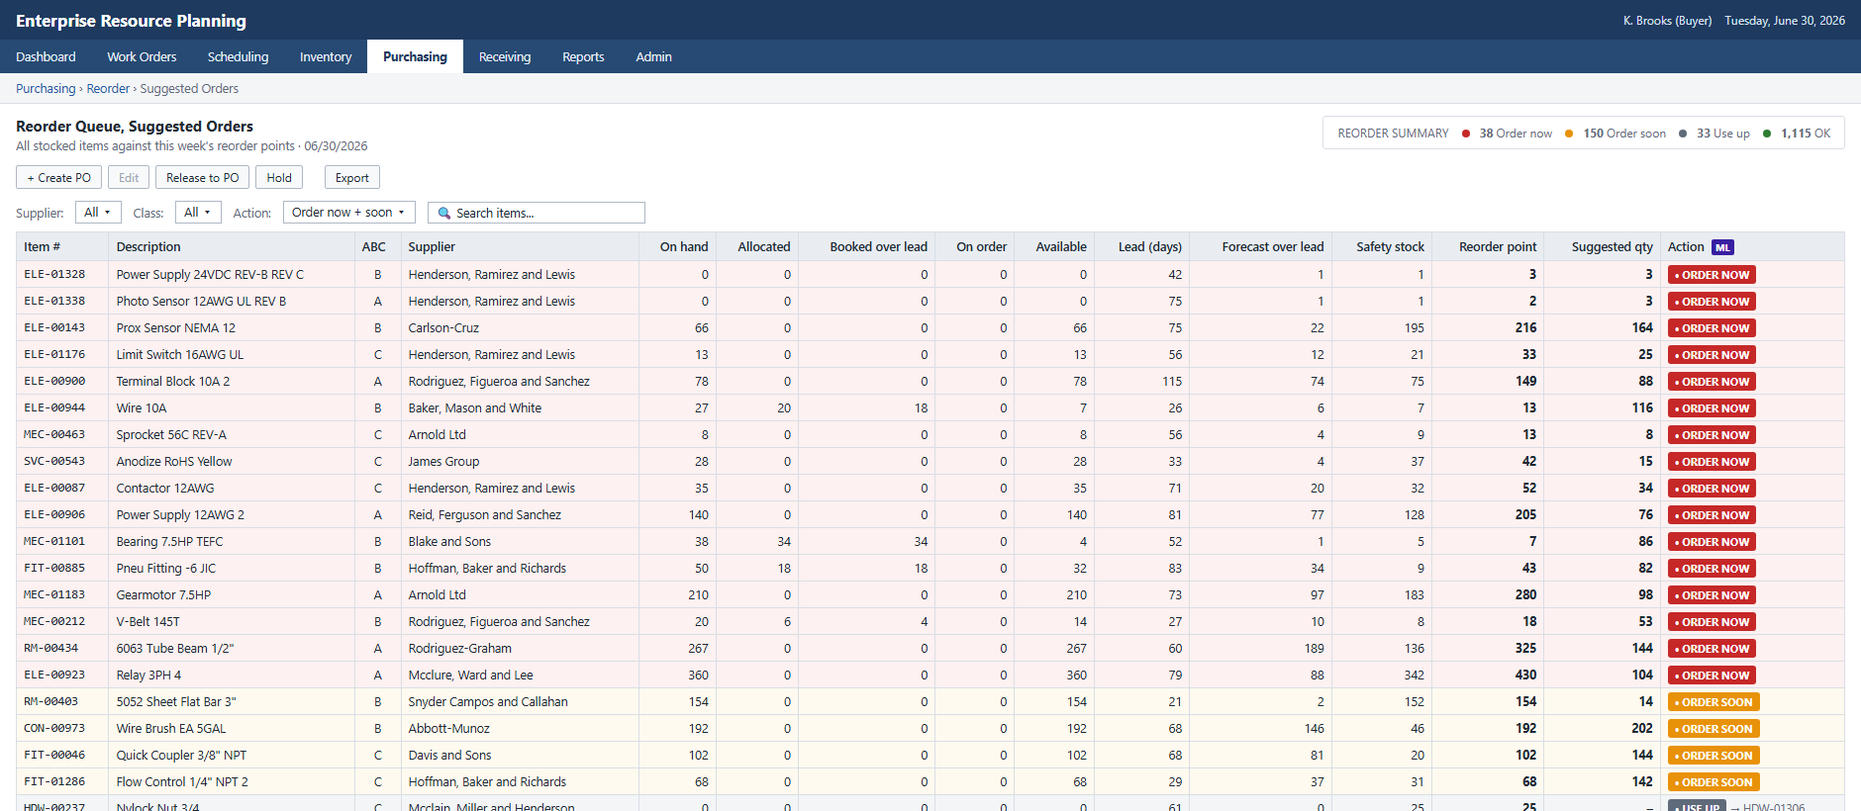
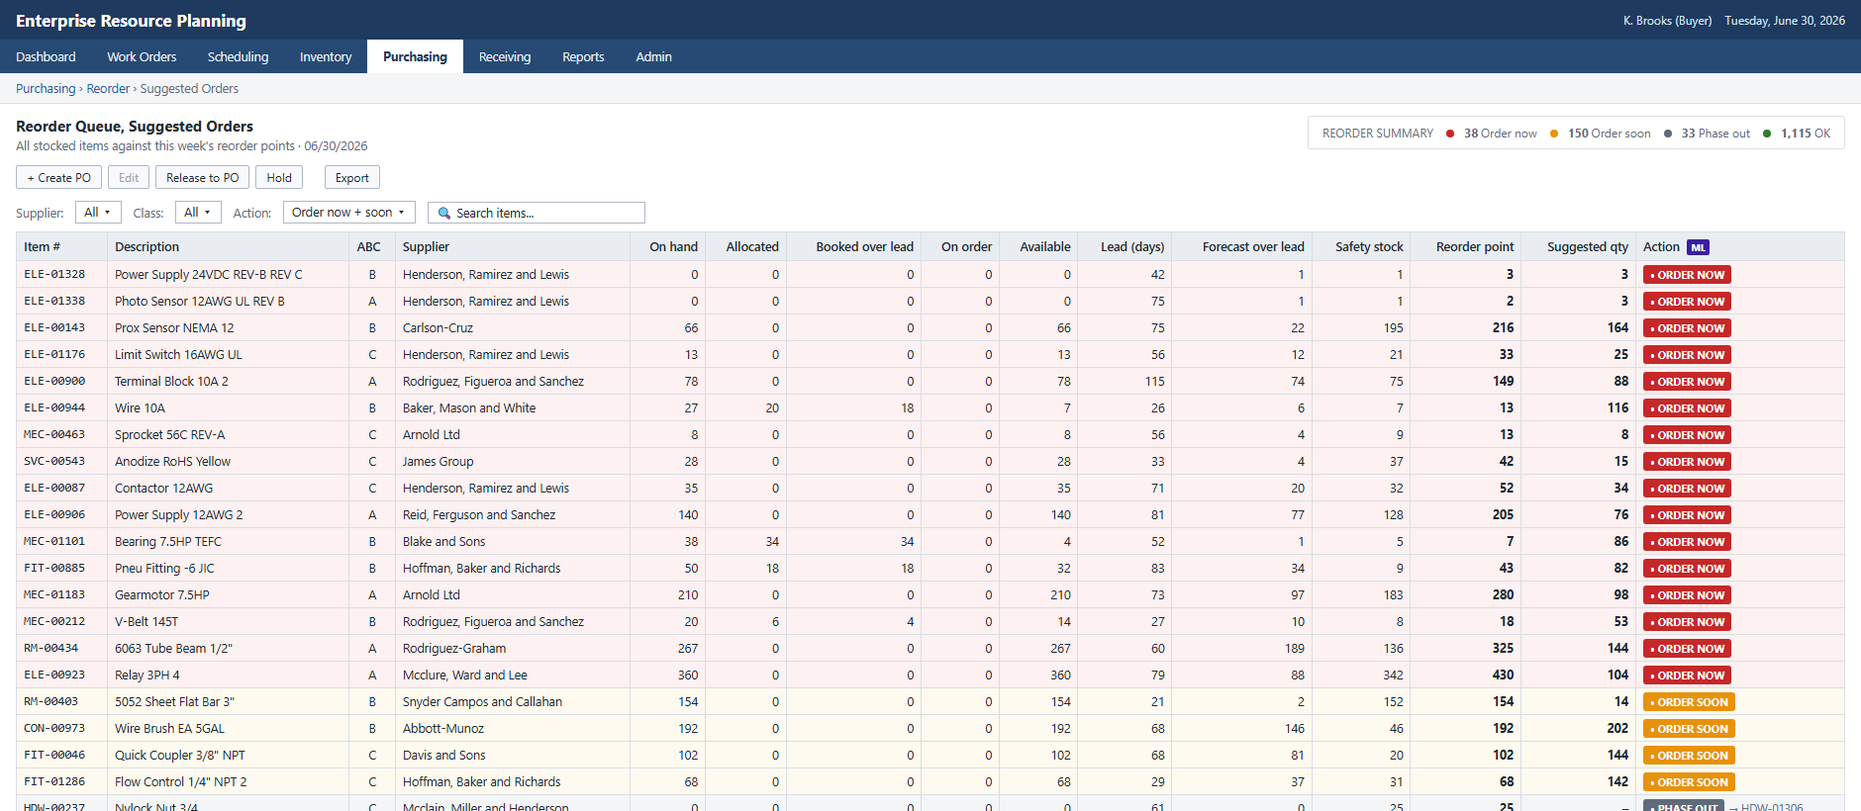
Reorder queue: superseded parts read PHASE OUT
The badge, the summary count and the run message use the new term; nothing
else on the page changes. Screenshot re-captured at 1880 by 820.

diff --git a/docs/index.html b/docs/index.html
@@ -43,7 +43,7 @@
   <div class="sub">All stocked items against this week's reorder points &middot; 06/30/2026</div></div>
   <div class="summary">REORDER SUMMARY <span class="dot" style="background:#C62828"></span><b>38</b>Order now
   <span class="dot" style="background:#E8920A"></span><b>150</b>Order soon
-  <span class="dot" style="background:#5F6B7A"></span><b>33</b>Use up
+  <span class="dot" style="background:#5F6B7A"></span><b>33</b>Phase out
   <span class="dot" style="background:#2E7D32"></span><b>1,115</b>OK</div></div>
 <div class="bar"><span class="btn">+ Create PO</span><span class="btn dim">Edit</span><span class="btn">Release to PO</span>
   <span class="btn">Hold</span><span class="sep"></span><span class="btn">Export</span></div>
@@ -52,5 +52,5 @@
 <table><thead><tr><th>Item #</th><th>Description</th><th>ABC</th><th>Supplier</th><th class="r">On hand</th>
 <th class="r">Allocated</th><th class="r">Booked over lead</th><th class="r">On order</th><th class="r">Available</th><th class="r">Lead (days)</th><th class="r">Forecast over lead</th><th class="r">Safety stock</th>
 <th class="r">Reorder point</th><th class="r">Suggested qty</th><th>Action <span class="ml">ML</span></th></tr></thead>
-<tbody><tr style="background:#FDF1F1;"><td class="mono">ELE-01328</td><td>Power Supply 24VDC REV-B REV C</td><td class="c">B</td><td>Henderson, Ramirez and Lewis</td><td class="r">0</td><td class="r">0</td><td class="r">0</td><td class="r">0</td><td class="r">0</td><td class="r">42</td><td class="r">1</td><td class="r">1</td><td class="r"><b>3</b></td><td class="r"><b>3</b></td><td><span class="badge" style="background:#C62828;">&bull; ORDER NOW</span></td></tr><tr style="background:#FDF1F1;"><td class="mono">ELE-01338</td><td>Photo Sensor 12AWG UL REV B</td><td class="c">A</td><td>Henderson, Ramirez and Lewis</td><td class="r">0</td><td class="r">0</td><td class="r">0</td><td class="r">0</td><td class="r">0</td><td class="r">75</td><td class="r">1</td><td class="r">1</td><td class="r"><b>2</b></td><td class="r"><b>3</b></td><td><span class="badge" style="background:#C62828;">&bull; ORDER NOW</span></td></tr><tr style="background:#FDF1F1;"><td class="mono">ELE-00143</td><td>Prox Sensor NEMA 12</td><td class="c">B</td><td>Carlson-Cruz</td><td class="r">66</td><td class="r">0</td><td class="r">0</td><td class="r">0</td><td class="r">66</td><td class="r">75</td><td class="r">22</td><td class="r">195</td><td class="r"><b>216</b></td><td class="r"><b>164</b></td><td><span class="badge" style="background:#C62828;">&bull; ORDER NOW</span></td></tr><tr style="background:#FDF1F1;"><td class="mono">ELE-01176</td><td>Limit Switch 16AWG UL</td><td class="c">C</td><td>Henderson, Ramirez and Lewis</td><td class="r">13</td><td class="r">0</td><td class="r">0</td><td class="r">0</td><td class="r">13</td><td class="r">56</td><td class="r">12</td><td class="r">21</td><td class="r"><b>33</b></td><td class="r"><b>25</b></td><td><span class="badge" style="background:#C62828;">&bull; ORDER NOW</span></td></tr><tr style="background:#FDF1F1;"><td class="mono">ELE-00900</td><td>Terminal Block 10A 2</td><td class="c">A</td><td>Rodriguez, Figueroa and Sanchez</td><td class="r">78</td><td class="r">0</td><td class="r">0</td><td class="r">0</td><td class="r">78</td><td class="r">115</td><td class="r">74</td><td class="r">75</td><td class="r"><b>149</b></td><td class="r"><b>88</b></td><td><span class="badge" style="background:#C62828;">&bull; ORDER NOW</span></td></tr><tr style="background:#FDF1F1;"><td class="mono">ELE-00944</td><td>Wire 10A</td><td class="c">B</td><td>Baker, Mason and White</td><td class="r">27</td><td class="r">20</td><td class="r">18</td><td class="r">0</td><td class="r">7</td><td class="r">26</td><td class="r">6</td><td class="r">7</td><td class="r"><b>13</b></td><td class="r"><b>116</b></td><td><span class="badge" style="background:#C62828;">&bull; ORDER NOW</span></td></tr><tr style="background:#FDF1F1;"><td class="mono">MEC-00463</td><td>Sprocket 56C REV-A</td><td class="c">C</td><td>Arnold Ltd</td><td class="r">8</td><td class="r">0</td><td class="r">0</td><td class="r">0</td><td class="r">8</td><td class="r">56</td><td class="r">4</td><td class="r">9</td><td class="r"><b>13</b></td><td class="r"><b>8</b></td><td><span class="badge" style="background:#C62828;">&bull; ORDER NOW</span></td></tr><tr style="background:#FDF1F1;"><td class="mono">SVC-00543</td><td>Anodize RoHS Yellow</td><td class="c">C</td><td>James Group</td><td class="r">28</td><td class="r">0</td><td class="r">0</td><td class="r">0</td><td class="r">28</td><td class="r">33</td><td class="r">4</td><td class="r">37</td><td class="r"><b>42</b></td><td class="r"><b>15</b></td><td><span class="badge" style="background:#C62828;">&bull; ORDER NOW</span></td></tr><tr style="background:#FDF1F1;"><td class="mono">ELE-00087</td><td>Contactor 12AWG</td><td class="c">C</td><td>Henderson, Ramirez and Lewis</td><td class="r">35</td><td class="r">0</td><td class="r">0</td><td class="r">0</td><td class="r">35</td><td class="r">71</td><td class="r">20</td><td class="r">32</td><td class="r"><b>52</b></td><td class="r"><b>34</b></td><td><span class="badge" style="background:#C62828;">&bull; ORDER NOW</span></td></tr><tr style="background:#FDF1F1;"><td class="mono">ELE-00906</td><td>Power Supply 12AWG 2</td><td class="c">A</td><td>Reid, Ferguson and Sanchez</td><td class="r">140</td><td class="r">0</td><td class="r">0</td><td class="r">0</td><td class="r">140</td><td class="r">81</td><td class="r">77</td><td class="r">128</td><td class="r"><b>205</b></td><td class="r"><b>76</b></td><td><span class="badge" style="background:#C62828;">&bull; ORDER NOW</span></td></tr><tr style="background:#FDF1F1;"><td class="mono">MEC-01101</td><td>Bearing 7.5HP TEFC</td><td class="c">B</td><td>Blake and Sons</td><td class="r">38</td><td class="r">34</td><td class="r">34</td><td class="r">0</td><td class="r">4</td><td class="r">52</td><td class="r">1</td><td class="r">5</td><td class="r"><b>7</b></td><td class="r"><b>86</b></td><td><span class="badge" style="background:#C62828;">&bull; ORDER NOW</span></td></tr><tr style="background:#FDF1F1;"><td class="mono">FIT-00885</td><td>Pneu Fitting -6 JIC</td><td class="c">B</td><td>Hoffman, Baker and Richards</td><td class="r">50</td><td class="r">18</td><td class="r">18</td><td class="r">0</td><td class="r">32</td><td class="r">83</td><td class="r">34</td><td class="r">9</td><td class="r"><b>43</b></td><td class="r"><b>82</b></td><td><span class="badge" style="background:#C62828;">&bull; ORDER NOW</span></td></tr><tr style="background:#FDF1F1;"><td class="mono">MEC-01183</td><td>Gearmotor 7.5HP</td><td class="c">A</td><td>Arnold Ltd</td><td class="r">210</td><td class="r">0</td><td class="r">0</td><td class="r">0</td><td class="r">210</td><td class="r">73</td><td class="r">97</td><td class="r">183</td><td class="r"><b>280</b></td><td class="r"><b>98</b></td><td><span class="badge" style="background:#C62828;">&bull; ORDER NOW</span></td></tr><tr style="background:#FDF1F1;"><td class="mono">MEC-00212</td><td>V-Belt 145T</td><td class="c">B</td><td>Rodriguez, Figueroa and Sanchez</td><td class="r">20</td><td class="r">6</td><td class="r">4</td><td class="r">0</td><td class="r">14</td><td class="r">27</td><td class="r">10</td><td class="r">8</td><td class="r"><b>18</b></td><td class="r"><b>53</b></td><td><span class="badge" style="background:#C62828;">&bull; ORDER NOW</span></td></tr><tr style="background:#FDF1F1;"><td class="mono">RM-00434</td><td>6063 Tube Beam 1/2"</td><td class="c">A</td><td>Rodriguez-Graham</td><td class="r">267</td><td class="r">0</td><td class="r">0</td><td class="r">0</td><td class="r">267</td><td class="r">60</td><td class="r">189</td><td class="r">136</td><td class="r"><b>325</b></td><td class="r"><b>144</b></td><td><span class="badge" style="background:#C62828;">&bull; ORDER NOW</span></td></tr><tr style="background:#FDF1F1;"><td class="mono">ELE-00923</td><td>Relay 3PH 4</td><td class="c">A</td><td>Mcclure, Ward and Lee</td><td class="r">360</td><td class="r">0</td><td class="r">0</td><td class="r">0</td><td class="r">360</td><td class="r">79</td><td class="r">88</td><td class="r">342</td><td class="r"><b>430</b></td><td class="r"><b>104</b></td><td><span class="badge" style="background:#C62828;">&bull; ORDER NOW</span></td></tr><tr style="background:#FFFAEF;"><td class="mono">RM-00403</td><td>5052 Sheet Flat Bar 3"</td><td class="c">B</td><td>Snyder Campos and Callahan</td><td class="r">154</td><td class="r">0</td><td class="r">0</td><td class="r">0</td><td class="r">154</td><td class="r">21</td><td class="r">2</td><td class="r">152</td><td class="r"><b>154</b></td><td class="r"><b>14</b></td><td><span class="badge" style="background:#E8920A;">&bull; ORDER SOON</span></td></tr><tr style="background:#FFFAEF;"><td class="mono">CON-00973</td><td>Wire Brush EA 5GAL</td><td class="c">B</td><td>Abbott-Munoz</td><td class="r">192</td><td class="r">0</td><td class="r">0</td><td class="r">0</td><td class="r">192</td><td class="r">68</td><td class="r">146</td><td class="r">46</td><td class="r"><b>192</b></td><td class="r"><b>202</b></td><td><span class="badge" style="background:#E8920A;">&bull; ORDER SOON</span></td></tr><tr style="background:#FFFAEF;"><td class="mono">FIT-00046</td><td>Quick Coupler 3/8" NPT</td><td class="c">C</td><td>Davis and Sons</td><td class="r">102</td><td class="r">0</td><td class="r">0</td><td class="r">0</td><td class="r">102</td><td class="r">68</td><td class="r">81</td><td class="r">20</td><td class="r"><b>102</b></td><td class="r"><b>144</b></td><td><span class="badge" style="background:#E8920A;">&bull; ORDER SOON</span></td></tr><tr style="background:#FFFAEF;"><td class="mono">FIT-01286</td><td>Flow Control 1/4" NPT 2</td><td class="c">C</td><td>Hoffman, Baker and Richards</td><td class="r">68</td><td class="r">0</td><td class="r">0</td><td class="r">0</td><td class="r">68</td><td class="r">29</td><td class="r">37</td><td class="r">31</td><td class="r"><b>68</b></td><td class="r"><b>142</b></td><td><span class="badge" style="background:#E8920A;">&bull; ORDER SOON</span></td></tr><tr style="background:#F3F5F7;"><td class="mono">HDW-00237</td><td>Nylock Nut 3/4</td><td class="c">C</td><td>Mcclain, Miller and Henderson</td><td class="r">0</td><td class="r">0</td><td class="r">0</td><td class="r">0</td><td class="r">0</td><td class="r">61</td><td class="r">0</td><td class="r">25</td><td class="r"><b>25</b></td><td class="r"><b>&ndash;</b></td><td><span class="badge" style="background:#5F6B7A;">&bull; USE UP</span> <span class="succ">&rarr; HDW-01306</span></td></tr><tr style="background:#F3F5F7;"><td class="mono">MEC-01178</td><td>Sprocket 56C 4</td><td class="c">C</td><td>Adams, Zuniga and Wong</td><td class="r">1</td><td class="r">0</td><td class="r">0</td><td class="r">0</td><td class="r">1</td><td class="r">10</td><td class="r">7</td><td class="r">30</td><td class="r"><b>37</b></td><td class="r"><b>&ndash;</b></td><td><span class="badge" style="background:#5F6B7A;">&bull; USE UP</span> <span class="succ">&rarr; MEC-01331</span></td></tr></tbody></table>
+<tbody><tr style="background:#FDF1F1;"><td class="mono">ELE-01328</td><td>Power Supply 24VDC REV-B REV C</td><td class="c">B</td><td>Henderson, Ramirez and Lewis</td><td class="r">0</td><td class="r">0</td><td class="r">0</td><td class="r">0</td><td class="r">0</td><td class="r">42</td><td class="r">1</td><td class="r">1</td><td class="r"><b>3</b></td><td class="r"><b>3</b></td><td><span class="badge" style="background:#C62828;">&bull; ORDER NOW</span></td></tr><tr style="background:#FDF1F1;"><td class="mono">ELE-01338</td><td>Photo Sensor 12AWG UL REV B</td><td class="c">A</td><td>Henderson, Ramirez and Lewis</td><td class="r">0</td><td class="r">0</td><td class="r">0</td><td class="r">0</td><td class="r">0</td><td class="r">75</td><td class="r">1</td><td class="r">1</td><td class="r"><b>2</b></td><td class="r"><b>3</b></td><td><span class="badge" style="background:#C62828;">&bull; ORDER NOW</span></td></tr><tr style="background:#FDF1F1;"><td class="mono">ELE-00143</td><td>Prox Sensor NEMA 12</td><td class="c">B</td><td>Carlson-Cruz</td><td class="r">66</td><td class="r">0</td><td class="r">0</td><td class="r">0</td><td class="r">66</td><td class="r">75</td><td class="r">22</td><td class="r">195</td><td class="r"><b>216</b></td><td class="r"><b>164</b></td><td><span class="badge" style="background:#C62828;">&bull; ORDER NOW</span></td></tr><tr style="background:#FDF1F1;"><td class="mono">ELE-01176</td><td>Limit Switch 16AWG UL</td><td class="c">C</td><td>Henderson, Ramirez and Lewis</td><td class="r">13</td><td class="r">0</td><td class="r">0</td><td class="r">0</td><td class="r">13</td><td class="r">56</td><td class="r">12</td><td class="r">21</td><td class="r"><b>33</b></td><td class="r"><b>25</b></td><td><span class="badge" style="background:#C62828;">&bull; ORDER NOW</span></td></tr><tr style="background:#FDF1F1;"><td class="mono">ELE-00900</td><td>Terminal Block 10A 2</td><td class="c">A</td><td>Rodriguez, Figueroa and Sanchez</td><td class="r">78</td><td class="r">0</td><td class="r">0</td><td class="r">0</td><td class="r">78</td><td class="r">115</td><td class="r">74</td><td class="r">75</td><td class="r"><b>149</b></td><td class="r"><b>88</b></td><td><span class="badge" style="background:#C62828;">&bull; ORDER NOW</span></td></tr><tr style="background:#FDF1F1;"><td class="mono">ELE-00944</td><td>Wire 10A</td><td class="c">B</td><td>Baker, Mason and White</td><td class="r">27</td><td class="r">20</td><td class="r">18</td><td class="r">0</td><td class="r">7</td><td class="r">26</td><td class="r">6</td><td class="r">7</td><td class="r"><b>13</b></td><td class="r"><b>116</b></td><td><span class="badge" style="background:#C62828;">&bull; ORDER NOW</span></td></tr><tr style="background:#FDF1F1;"><td class="mono">MEC-00463</td><td>Sprocket 56C REV-A</td><td class="c">C</td><td>Arnold Ltd</td><td class="r">8</td><td class="r">0</td><td class="r">0</td><td class="r">0</td><td class="r">8</td><td class="r">56</td><td class="r">4</td><td class="r">9</td><td class="r"><b>13</b></td><td class="r"><b>8</b></td><td><span class="badge" style="background:#C62828;">&bull; ORDER NOW</span></td></tr><tr style="background:#FDF1F1;"><td class="mono">SVC-00543</td><td>Anodize RoHS Yellow</td><td class="c">C</td><td>James Group</td><td class="r">28</td><td class="r">0</td><td class="r">0</td><td class="r">0</td><td class="r">28</td><td class="r">33</td><td class="r">4</td><td class="r">37</td><td class="r"><b>42</b></td><td class="r"><b>15</b></td><td><span class="badge" style="background:#C62828;">&bull; ORDER NOW</span></td></tr><tr style="background:#FDF1F1;"><td class="mono">ELE-00087</td><td>Contactor 12AWG</td><td class="c">C</td><td>Henderson, Ramirez and Lewis</td><td class="r">35</td><td class="r">0</td><td class="r">0</td><td class="r">0</td><td class="r">35</td><td class="r">71</td><td class="r">20</td><td class="r">32</td><td class="r"><b>52</b></td><td class="r"><b>34</b></td><td><span class="badge" style="background:#C62828;">&bull; ORDER NOW</span></td></tr><tr style="background:#FDF1F1;"><td class="mono">ELE-00906</td><td>Power Supply 12AWG 2</td><td class="c">A</td><td>Reid, Ferguson and Sanchez</td><td class="r">140</td><td class="r">0</td><td class="r">0</td><td class="r">0</td><td class="r">140</td><td class="r">81</td><td class="r">77</td><td class="r">128</td><td class="r"><b>205</b></td><td class="r"><b>76</b></td><td><span class="badge" style="background:#C62828;">&bull; ORDER NOW</span></td></tr><tr style="background:#FDF1F1;"><td class="mono">MEC-01101</td><td>Bearing 7.5HP TEFC</td><td class="c">B</td><td>Blake and Sons</td><td class="r">38</td><td class="r">34</td><td class="r">34</td><td class="r">0</td><td class="r">4</td><td class="r">52</td><td class="r">1</td><td class="r">5</td><td class="r"><b>7</b></td><td class="r"><b>86</b></td><td><span class="badge" style="background:#C62828;">&bull; ORDER NOW</span></td></tr><tr style="background:#FDF1F1;"><td class="mono">FIT-00885</td><td>Pneu Fitting -6 JIC</td><td class="c">B</td><td>Hoffman, Baker and Richards</td><td class="r">50</td><td class="r">18</td><td class="r">18</td><td class="r">0</td><td class="r">32</td><td class="r">83</td><td class="r">34</td><td class="r">9</td><td class="r"><b>43</b></td><td class="r"><b>82</b></td><td><span class="badge" style="background:#C62828;">&bull; ORDER NOW</span></td></tr><tr style="background:#FDF1F1;"><td class="mono">MEC-01183</td><td>Gearmotor 7.5HP</td><td class="c">A</td><td>Arnold Ltd</td><td class="r">210</td><td class="r">0</td><td class="r">0</td><td class="r">0</td><td class="r">210</td><td class="r">73</td><td class="r">97</td><td class="r">183</td><td class="r"><b>280</b></td><td class="r"><b>98</b></td><td><span class="badge" style="background:#C62828;">&bull; ORDER NOW</span></td></tr><tr style="background:#FDF1F1;"><td class="mono">MEC-00212</td><td>V-Belt 145T</td><td class="c">B</td><td>Rodriguez, Figueroa and Sanchez</td><td class="r">20</td><td class="r">6</td><td class="r">4</td><td class="r">0</td><td class="r">14</td><td class="r">27</td><td class="r">10</td><td class="r">8</td><td class="r"><b>18</b></td><td class="r"><b>53</b></td><td><span class="badge" style="background:#C62828;">&bull; ORDER NOW</span></td></tr><tr style="background:#FDF1F1;"><td class="mono">RM-00434</td><td>6063 Tube Beam 1/2"</td><td class="c">A</td><td>Rodriguez-Graham</td><td class="r">267</td><td class="r">0</td><td class="r">0</td><td class="r">0</td><td class="r">267</td><td class="r">60</td><td class="r">189</td><td class="r">136</td><td class="r"><b>325</b></td><td class="r"><b>144</b></td><td><span class="badge" style="background:#C62828;">&bull; ORDER NOW</span></td></tr><tr style="background:#FDF1F1;"><td class="mono">ELE-00923</td><td>Relay 3PH 4</td><td class="c">A</td><td>Mcclure, Ward and Lee</td><td class="r">360</td><td class="r">0</td><td class="r">0</td><td class="r">0</td><td class="r">360</td><td class="r">79</td><td class="r">88</td><td class="r">342</td><td class="r"><b>430</b></td><td class="r"><b>104</b></td><td><span class="badge" style="background:#C62828;">&bull; ORDER NOW</span></td></tr><tr style="background:#FFFAEF;"><td class="mono">RM-00403</td><td>5052 Sheet Flat Bar 3"</td><td class="c">B</td><td>Snyder Campos and Callahan</td><td class="r">154</td><td class="r">0</td><td class="r">0</td><td class="r">0</td><td class="r">154</td><td class="r">21</td><td class="r">2</td><td class="r">152</td><td class="r"><b>154</b></td><td class="r"><b>14</b></td><td><span class="badge" style="background:#E8920A;">&bull; ORDER SOON</span></td></tr><tr style="background:#FFFAEF;"><td class="mono">CON-00973</td><td>Wire Brush EA 5GAL</td><td class="c">B</td><td>Abbott-Munoz</td><td class="r">192</td><td class="r">0</td><td class="r">0</td><td class="r">0</td><td class="r">192</td><td class="r">68</td><td class="r">146</td><td class="r">46</td><td class="r"><b>192</b></td><td class="r"><b>202</b></td><td><span class="badge" style="background:#E8920A;">&bull; ORDER SOON</span></td></tr><tr style="background:#FFFAEF;"><td class="mono">FIT-00046</td><td>Quick Coupler 3/8" NPT</td><td class="c">C</td><td>Davis and Sons</td><td class="r">102</td><td class="r">0</td><td class="r">0</td><td class="r">0</td><td class="r">102</td><td class="r">68</td><td class="r">81</td><td class="r">20</td><td class="r"><b>102</b></td><td class="r"><b>144</b></td><td><span class="badge" style="background:#E8920A;">&bull; ORDER SOON</span></td></tr><tr style="background:#FFFAEF;"><td class="mono">FIT-01286</td><td>Flow Control 1/4" NPT 2</td><td class="c">C</td><td>Hoffman, Baker and Richards</td><td class="r">68</td><td class="r">0</td><td class="r">0</td><td class="r">0</td><td class="r">68</td><td class="r">29</td><td class="r">37</td><td class="r">31</td><td class="r"><b>68</b></td><td class="r"><b>142</b></td><td><span class="badge" style="background:#E8920A;">&bull; ORDER SOON</span></td></tr><tr style="background:#F3F5F7;"><td class="mono">HDW-00237</td><td>Nylock Nut 3/4</td><td class="c">C</td><td>Mcclain, Miller and Henderson</td><td class="r">0</td><td class="r">0</td><td class="r">0</td><td class="r">0</td><td class="r">0</td><td class="r">61</td><td class="r">0</td><td class="r">25</td><td class="r"><b>25</b></td><td class="r"><b>&ndash;</b></td><td><span class="badge" style="background:#5F6B7A;">&bull; PHASE OUT</span> <span class="succ">&rarr; HDW-01306</span></td></tr><tr style="background:#F3F5F7;"><td class="mono">MEC-01178</td><td>Sprocket 56C 4</td><td class="c">C</td><td>Adams, Zuniga and Wong</td><td class="r">1</td><td class="r">0</td><td class="r">0</td><td class="r">0</td><td class="r">1</td><td class="r">10</td><td class="r">7</td><td class="r">30</td><td class="r"><b>37</b></td><td class="r"><b>&ndash;</b></td><td><span class="badge" style="background:#5F6B7A;">&bull; PHASE OUT</span> <span class="succ">&rarr; MEC-01331</span></td></tr></tbody></table>
 </body></html>

diff --git a/ml/reports/generate_reorder_queue.py b/ml/reports/generate_reorder_queue.py
@@ -41,7 +41,7 @@ BLUE = "#381FA1"; BG = "#F3F5F7"; LINE = "#D9DEE5"; MUTED = "#5F6B7A"; ROWRED = 
 
 def build_queue():
     queue = SR.reorder_queue().set_index("canonical_item_number")
-    # parts superseded under a use-up change and past their switch date: the ERP shows them as use-up
+    # parts superseded under a use-up change and past their switch date: the ERP shows them as phase-out
     # with their successor and suggests no order; the policy's reorder point stays visible
     sup_by = SR.supersessions()
     use_up = sup_by[sup_by["supersede_switch_date"] <= pd.Timestamp(AS_OF)]["superseded_by"].to_dict()
@@ -110,7 +110,7 @@ def build_queue():
         need = float(known_jobs.get(item, 0.0))
         position = oh + oo - need
         if item in use_up:
-            status = "USE UP"
+            status = "PHASE OUT"
         elif position <= level:
             status = "ORDER NOW"
         elif position <= level + daily * SOON_DAYS:
@@ -133,7 +133,7 @@ def build_queue():
                      "suggested": suggested, "status": status, "cover": cover, "cost": float(a["standard_cost"]),
                      "flags": flags, "successor": use_up.get(item, "")})
     q = pd.DataFrame(rows)
-    q["rank"] = q["status"].map({"ORDER NOW": 0, "ORDER SOON": 1, "USE UP": 2, "OK": 3})
+    q["rank"] = q["status"].map({"ORDER NOW": 0, "ORDER SOON": 1, "PHASE OUT": 2, "OK": 3})
     q["gap"] = (q["avail"] - q["rop"]) / q["rop"].clip(lower=1)
     return q.sort_values(["rank", "gap"]).reset_index(drop=True)
 
@@ -145,11 +145,11 @@ def _fmt(x):
 def render(q):
     counts = q["status"].value_counts().to_dict()
     now, soon, ok = counts.get("ORDER NOW", 0), counts.get("ORDER SOON", 0), counts.get("OK", 0)
-    used = counts.get("USE UP", 0)
+    used = counts.get("PHASE OUT", 0)
     show = pd.concat([q[q["status"] == "ORDER NOW"].head(NROWS - 6), q[q["status"] == "ORDER SOON"].head(4),
-                      q[q["status"] == "USE UP"].head(2)])
-    badge = {"ORDER NOW": RED, "ORDER SOON": AMBER, "USE UP": MUTED, "OK": GREEN}
-    rowbg = {"ORDER NOW": ROWRED, "ORDER SOON": ROWAMB, "USE UP": BG, "OK": "#FFFFFF"}
+                      q[q["status"] == "PHASE OUT"].head(2)])
+    badge = {"ORDER NOW": RED, "ORDER SOON": AMBER, "PHASE OUT": MUTED, "OK": GREEN}
+    rowbg = {"ORDER NOW": ROWRED, "ORDER SOON": ROWAMB, "PHASE OUT": BG, "OK": "#FFFFFF"}
     trs = []
     for r in show.itertuples(index=False):
         tags = "".join(f'<span class="tag">{f}</span>' for f in r.flags)
@@ -210,7 +210,7 @@ def render(q):
   <div class="sub">All stocked items against this week's reorder points &middot; {pd.Timestamp(AS_OF).strftime('%m/%d/%Y')}</div></div>
   <div class="summary">REORDER SUMMARY <span class="dot" style="background:{RED}"></span><b>{now}</b>Order now
   <span class="dot" style="background:{AMBER}"></span><b>{soon}</b>Order soon
-  <span class="dot" style="background:{MUTED}"></span><b>{used}</b>Use up
+  <span class="dot" style="background:{MUTED}"></span><b>{used}</b>Phase out
   <span class="dot" style="background:{GREEN}"></span><b>{ok:,}</b>OK</div></div>
 <div class="bar"><span class="btn">+ Create PO</span><span class="btn dim">Edit</span><span class="btn">Release to PO</span>
   <span class="btn">Hold</span><span class="sep"></span><span class="btn">Export</span></div>
@@ -228,7 +228,7 @@ def render(q):
 def run():
     q = build_queue()
     now, soon, used, ok = render(q)
-    print(f"Reorder queue written to {OUT}: {now} order now, {soon} order soon, {used} use up, {ok:,} OK")
+    print(f"Reorder queue written to {OUT}: {now} order now, {soon} order soon, {used} phase out, {ok:,} OK")
 
 
 if __name__ == "__main__":
